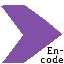
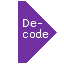
2025-12-05 KRAMPUS RELEASE

diff --git a/C#/Area23.At.WinForm.CryptFormCore/Helper/BitmapPipelineGnerator.cs b/C#/Area23.At.WinForm.CryptFormCore/Helper/BitmapPipelineGnerator.cs
@@ -126,7 +126,7 @@ namespace Area23.At.WinForm.CryptFormCore.Helper
                 using (System.Drawing.Graphics g = System.Drawing.Graphics.FromImage(mergeimg))
                 {
                     w = 60;
-                    ximage = new Bitmap(Properties.Resources.encoding_right_0, new Size(64, 64));
+                    ximage = new Bitmap(Properties.Resources.encoding_right_end_0, new Size(64, 64));
                     g.DrawImage(ximage, new System.Drawing.Rectangle(offset, 20, w, 64));                    
                     string drawString = this.CiffrePipe.EncodeType.ToString();
                     Font drawFont = new Font("Microsoft Sans Serif", 12, FontStyle.Bold);
@@ -163,7 +163,7 @@ namespace Area23.At.WinForm.CryptFormCore.Helper
                 if (this.CiffrePipe.EncodeType != Framework.Core.Crypt.EnDeCoding.EncodingType.None)
                 {
                     w = 60;
-                    ximage = new Bitmap(Properties.Resources.decoding_right_0, new Size(64, 64));
+                    ximage = new Bitmap(Properties.Resources.encoding_right_0, new Size(64, 64));
                     g.DrawImage(ximage, new System.Drawing.Rectangle(offset, 20, w, 64));
                     
                     string drawString = this.CiffrePipe.EncodeType.ToString();

diff --git a/C#/Area23.At.WinForm.CryptFormCore/Properties/Resources.Designer.cs b/C#/Area23.At.WinForm.CryptFormCore/Properties/Resources.Designer.cs
@@ -473,6 +473,16 @@ namespace Area23.At.WinForm.CryptFormCore.Properties {
         /// <summary>
         ///   Looks up a localized resource of type System.Drawing.Bitmap.
         /// </summary>
+        internal static System.Drawing.Bitmap encoding_right_end_0 {
+            get {
+                object obj = ResourceManager.GetObject("encoding_right_end_0", resourceCulture);
+                return ((System.Drawing.Bitmap)(obj));
+            }
+        }
+        
+        /// <summary>
+        ///   Looks up a localized resource of type System.Drawing.Bitmap.
+        /// </summary>
         internal static System.Drawing.Bitmap encrypted {
             get {
                 object obj = ResourceManager.GetObject("encrypted", resourceCulture);
